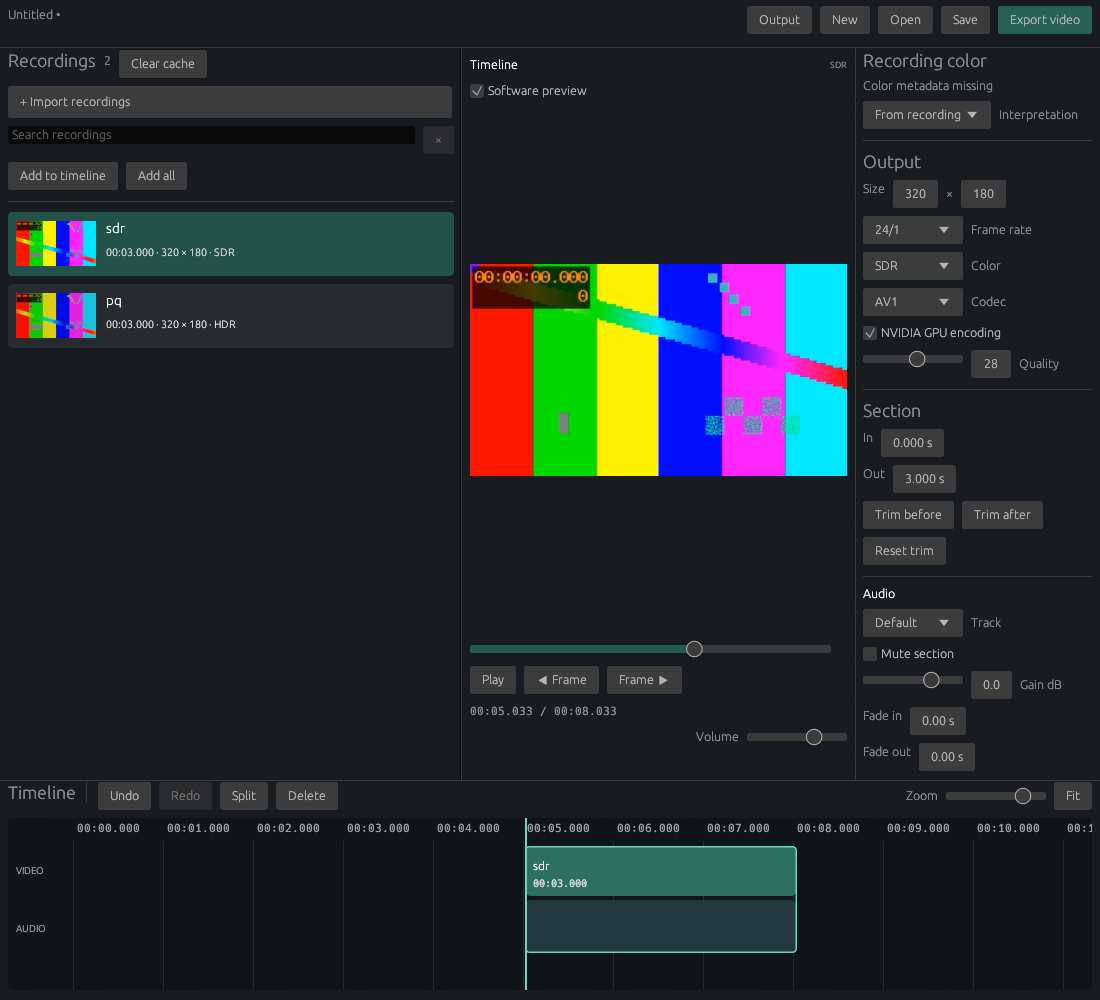
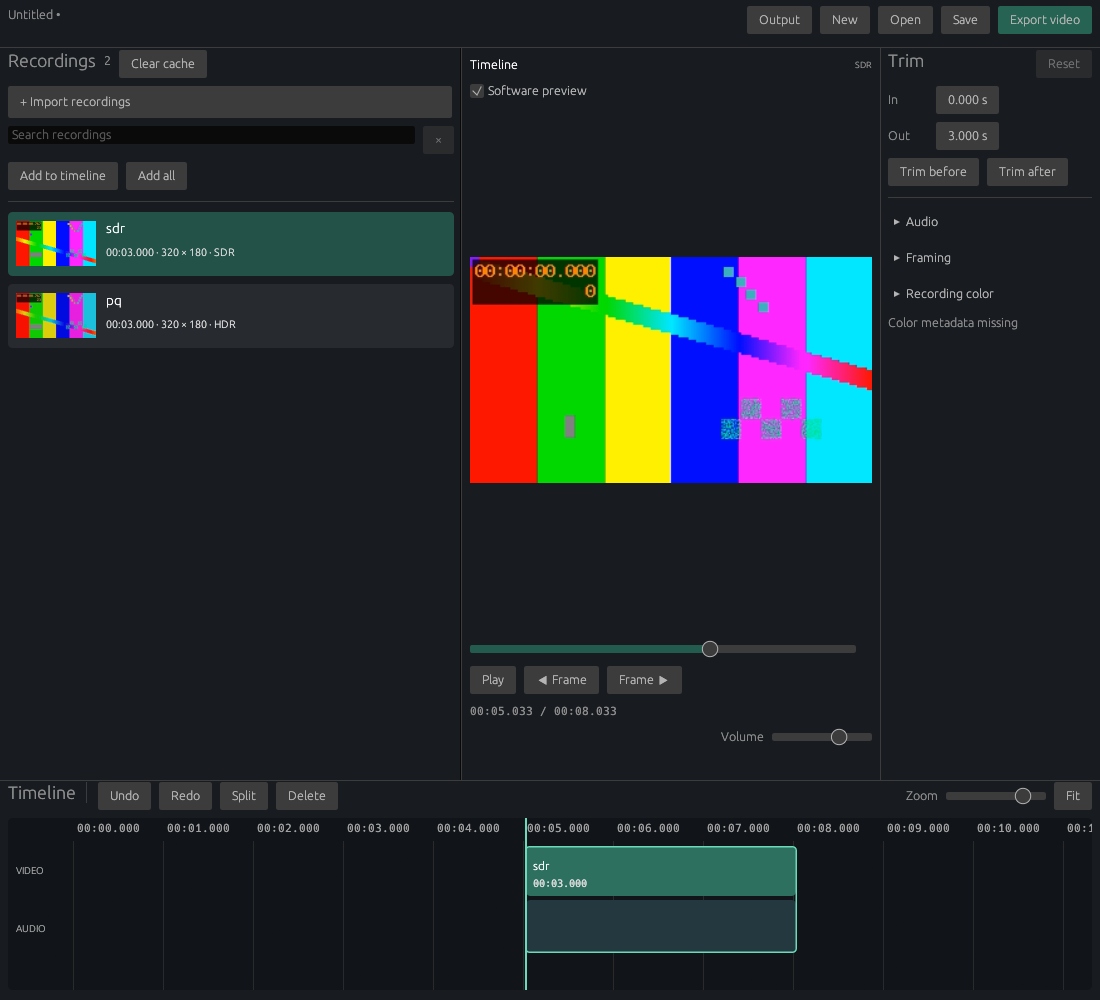
Simplify inspector around trimming

diff --git a/Development/rust/crates/desktop-ui/src/ui.rs b/Development/rust/crates/desktop-ui/src/ui.rs
@@ -1344,11 +1344,11 @@ impl EditorApp {
                 ui.horizontal(|ui| {
                     ui.heading("Timeline");
                     ui.separator();
-                    if ui
+                    let undo = ui
                         .add_enabled(self.editor.can_undo(), egui::Button::new("Undo"))
-                        .on_hover_cursor(egui::CursorIcon::PointingHand)
-                        .clicked()
-                    {
+                        .on_hover_cursor(egui::CursorIcon::PointingHand);
+                    self.controls.insert("undo", undo.rect);
+                    if undo.clicked() {
                         self.history(false);
                         self.request_key.clear();
                     }
@@ -1869,6 +1869,14 @@ impl EditorApp {
             });
     }
     fn inspector(&mut self, ctx: &egui::Context) {
+        for control in [
+            "audio-mute",
+            "audio-volume",
+            "framing-mode",
+            "recording-interpretation",
+        ] {
+            self.controls.remove(control);
+        }
         if !self.settings
             && self.selected_clip().is_none()
             && !(self.library_preview && self.library_selected.is_some())
@@ -1885,14 +1893,6 @@ impl EditorApp {
                     let mut metadata = self.editor.metadata().clone();
                     let before = metadata.clone();
                     let recording=if self.library_preview{self.library_selected}else{self.selected_clip().map(|c|c.source)};
-                    if let Some(source)=recording.and_then(|id|metadata.sources.iter().find(|s|s.id==id)){
-                        ui.heading("Recording color").on_hover_text(format!("{} · {} · {}",source.transfer,source.primaries,source.matrix));
-                        if source.transfer=="unknown" || source.primaries=="unknown" || source.matrix=="unknown"{ui.label("Color metadata missing").on_hover_text("Unspecified metadata uses SDR Rec.709 for YUV or sRGB for RGB. Choose an interpretation if the recording was made differently.");}
-                        if source.hdr() && source.primaries!="bt2020"{ui.label("Conflicting HDR metadata").on_hover_text("HDR transfer and color primaries disagree. Confirm the intended interpretation.");}
-                        let mut interpretation=metadata.interpretations.get(&source.id).copied().unwrap_or_default();
-                        egui::ComboBox::from_label("Interpretation").selected_text(match interpretation {SourceInterpretation::Auto=>"From recording",SourceInterpretation::Sdr709=>"SDR Rec.709",SourceInterpretation::Srgb=>"SDR sRGB",SourceInterpretation::Pq2020=>"HDR PQ / Rec.2020",SourceInterpretation::Hlg2020=>"HDR HLG / Rec.2020"}).show_ui(ui,|ui|{for (value,label) in [(SourceInterpretation::Auto,"From recording"),(SourceInterpretation::Sdr709,"SDR Rec.709"),(SourceInterpretation::Srgb,"SDR sRGB"),(SourceInterpretation::Pq2020,"HDR PQ / Rec.2020"),(SourceInterpretation::Hlg2020,"HDR HLG / Rec.2020")]{ui.selectable_value(&mut interpretation,value,label).on_hover_cursor(egui::CursorIcon::PointingHand);}}).response.on_hover_cursor(egui::CursorIcon::PointingHand);
-                        if interpretation!=SourceInterpretation::Auto || metadata.interpretations.contains_key(&source.id){metadata.interpretations.insert(source.id,interpretation);}ui.separator();
-                    }
                     if self.settings {
                         ui.heading("Output");
                         if metadata.output.profile==ColorProfile::Hdr10{
@@ -1974,22 +1974,31 @@ impl EditorApp {
                         ui.separator();
                     }
                     if !self.library_preview && let Some(clip) = self.selected_clip() {
-                        ui.heading("Section").on_hover_text(format!("Timeline position: {}",time(clip.timeline_start)));
+                        ui.horizontal(|ui| {
+                            ui.heading("Trim").on_hover_text(format!("Timeline position: {}", time(clip.timeline_start)));
+                            ui.with_layout(egui::Layout::right_to_left(egui::Align::Center), |ui| {
+                                if let Some(source) = metadata.sources.iter().find(|s| s.id == clip.source) {
+                                    let reset = ui.add_enabled(clip.source_in != 0.0 || clip.source_out != source.duration, egui::Button::new("Reset"))
+                                        .on_hover_cursor(egui::CursorIcon::PointingHand)
+                                        .on_hover_text("Restore the full recording");
+                                    self.controls.insert("trim-reset", reset.rect);
+                                    if reset.clicked() { self.trim(Some(0.0), Some(source.duration)); }
+                                }
+                            });
+                        });
                         let mut start = clip.source_in;
                         let mut end = clip.source_out;
-                        ui.horizontal(|ui| {
+                        egui::Grid::new("trim-fields").show(ui, |ui| {
                             ui.label("In");
-                            let response=trim_input(ui,&mut start,("trim-in",clip.id.0));self.controls.insert("trim-in",response.rect);
-                            if response.changed(){
-                                self.trim(Some(start), None);
-                            }
-                        });
-                        ui.horizontal(|ui| {
+                            let response = trim_input(ui, &mut start, ("trim-in", clip.id.0));
+                            self.controls.insert("trim-in", response.rect);
+                            if response.changed() { self.trim(Some(start), None); }
+                            ui.end_row();
                             ui.label("Out");
-                            let response=trim_input(ui,&mut end,("trim-out",clip.id.0));self.controls.insert("trim-out",response.rect);
-                            if response.changed(){
-                                self.trim(None, Some(end));
-                            }
+                            let response = trim_input(ui, &mut end, ("trim-out", clip.id.0));
+                            self.controls.insert("trim-out", response.rect);
+                            if response.changed() { self.trim(None, Some(end)); }
+                            ui.end_row();
                         });
                         ui.horizontal(|ui| {
                             if ui.button("Trim before").on_hover_cursor(egui::CursorIcon::PointingHand).on_hover_text("Trim before the playhead (Q)").clicked() {
@@ -1999,15 +2008,13 @@ impl EditorApp {
                                 self.quick_trim(false);
                             }
                         });
-                        if ui.button("Reset trim").on_hover_cursor(egui::CursorIcon::PointingHand).clicked()
-                            && let Some(s) = metadata.sources.iter().find(|s| s.id == clip.source)
-                        {
-                            self.trim(Some(0.0), Some(s.duration));
-                        }
                         let mut adjustment = metadata.adjustments.get(&clip.id).cloned().unwrap_or_default();
                         let previous_adjustment=adjustment.clone();
                         ui.separator();
-                        ui.strong("Audio");
+                        let audio = egui::CollapsingHeader::new("Audio")
+                            .id_salt("section-audio")
+                            .default_open(false)
+                            .show_unindented(ui, |ui| {
                         if let Some(source) = metadata.sources.iter().find(|s| s.id == clip.source)
                         {
                             egui::ComboBox::from_label("Track")
@@ -2027,11 +2034,14 @@ impl EditorApp {
                                     }
                                 }).response.on_hover_cursor(egui::CursorIcon::PointingHand);
                         }
-                        ui.checkbox(&mut adjustment.muted, "Mute section").on_hover_cursor(egui::CursorIcon::PointingHand);
-                        ui.add(
-                            egui::Slider::new(&mut adjustment.gain_db, -60.0..=24.0)
-                                .text("Gain dB"),
-                        );
+                        let mute = ui.checkbox(&mut adjustment.muted, "Mute").on_hover_cursor(egui::CursorIcon::PointingHand);
+                        self.controls.insert("audio-mute", mute.rect);
+                        let volume = ui.scope(|ui| {
+                            ui.spacing_mut().slider_width = (ui.available_width() - 140.0).clamp(50.0, 100.0);
+                            ui.add(egui::Slider::new(&mut adjustment.gain_db, -60.0..=24.0)
+                                .text("Volume").suffix(" dB"))
+                        }).inner;
+                        self.controls.insert("audio-volume", volume.rect);
                         ui.horizontal(|ui| {
                             ui.label("Fade in");
                             ui.add(
@@ -2050,15 +2060,21 @@ impl EditorApp {
                                     .suffix(" s"),
                             );
                         });
-                        ui.separator();
-                        ui.strong("Framing");
-                        egui::ComboBox::from_label("Mode")
+                        });
+                        self.controls.insert("inspector-audio", audio.header_response.rect);
+                        audio.header_response.on_hover_cursor(egui::CursorIcon::PointingHand);
+                        let framing = egui::CollapsingHeader::new("Framing")
+                            .id_salt("section-framing")
+                            .default_open(false)
+                            .show_unindented(ui, |ui| {
+                        let mode = egui::ComboBox::from_id_salt("framing-mode")
                             .selected_text(format!("{:?}", adjustment.framing))
                             .show_ui(ui, |ui| {
                                 ui.selectable_value(&mut adjustment.framing, Framing::Fit, "Fit").on_hover_cursor(egui::CursorIcon::PointingHand);
                                 ui.selectable_value(&mut adjustment.framing, Framing::Fill, "Fill").on_hover_cursor(egui::CursorIcon::PointingHand);
                                 ui.selectable_value(&mut adjustment.framing, Framing::Crop, "Crop").on_hover_cursor(egui::CursorIcon::PointingHand);
                             }).response.on_hover_cursor(egui::CursorIcon::PointingHand);
+                        self.controls.insert("framing-mode", mode.rect);
                         egui::ComboBox::from_label("Rotate")
                             .selected_text(format!("{}°", adjustment.rotation))
                             .show_ui(ui, |ui| {
@@ -2080,7 +2096,27 @@ impl EditorApp {
                                 );
                             }
                         }
+                        });
+                        self.controls.insert("inspector-framing", framing.header_response.rect);
+                        framing.header_response.on_hover_cursor(egui::CursorIcon::PointingHand);
                         if adjustment!=previous_adjustment{metadata.adjustments.insert(clip.id,adjustment);}
+                    }
+                    if let Some(source)=recording.and_then(|id|metadata.sources.iter().find(|s|s.id==id)){
+                        let color = egui::CollapsingHeader::new("Recording color")
+                            .id_salt("recording-color")
+                            .default_open(false)
+                            .show_unindented(ui, |ui| {
+                        let mut interpretation=metadata.interpretations.get(&source.id).copied().unwrap_or_default();
+                        let interpretation_response = egui::ComboBox::from_id_salt("source-interpretation").selected_text(match interpretation {SourceInterpretation::Auto=>"From recording",SourceInterpretation::Sdr709=>"SDR Rec.709",SourceInterpretation::Srgb=>"SDR sRGB",SourceInterpretation::Pq2020=>"HDR PQ / Rec.2020",SourceInterpretation::Hlg2020=>"HDR HLG / Rec.2020"}).show_ui(ui,|ui|{for (value,label) in [(SourceInterpretation::Auto,"From recording"),(SourceInterpretation::Sdr709,"SDR Rec.709"),(SourceInterpretation::Srgb,"SDR sRGB"),(SourceInterpretation::Pq2020,"HDR PQ / Rec.2020"),(SourceInterpretation::Hlg2020,"HDR HLG / Rec.2020")]{ui.selectable_value(&mut interpretation,value,label).on_hover_cursor(egui::CursorIcon::PointingHand);}}).response.on_hover_cursor(egui::CursorIcon::PointingHand);
+                        self.controls.insert("recording-interpretation", interpretation_response.rect);
+                        if interpretation!=SourceInterpretation::Auto || metadata.interpretations.contains_key(&source.id){metadata.interpretations.insert(source.id,interpretation);}
+                        });
+                        self.controls.insert("inspector-color", color.header_response.rect);
+                        color.header_response.on_hover_cursor(egui::CursorIcon::PointingHand)
+                            .on_hover_text(format!("{} · {} · {}",source.transfer,source.primaries,source.matrix));
+                        if source.transfer=="unknown" || source.primaries=="unknown" || source.matrix=="unknown"{ui.label("Color metadata missing").on_hover_text("Unspecified metadata uses SDR Rec.709 for YUV or sRGB for RGB. Choose an interpretation if the recording was made differently.");}
+                        if source.hdr() && source.primaries!="bt2020"{ui.label("Conflicting HDR metadata").on_hover_text("HDR transfer and color primaries disagree. Confirm the intended interpretation.");}
+
                     }
                     if metadata != before {
                         self.metadata(metadata);

diff --git a/Development/rust/crates/desktop-ui/src/ui/interaction_verification.rs b/Development/rust/crates/desktop-ui/src/ui/interaction_verification.rs
@@ -1035,6 +1035,124 @@ impl EditorApp {
                             );
                         }
                         test.checks.push("Library and external recording drops preserve source-frame placement despite a different output rate, and undo".into());
+                        test.phase = 116;
+                    }
+                    116 => {
+                        self.settings = false;
+                        test.precision = Some(SavedProject::capture(&self.editor));
+                        test.phase = 117;
+                    }
+                    117 => {
+                        if ["audio-mute", "framing-mode", "recording-interpretation"]
+                            .iter()
+                            .any(|key| self.controls.contains_key(key))
+                        {
+                            return Err(
+                                "Advanced inspector controls are not collapsed by default".into()
+                            );
+                        }
+                        ctx.send_viewport_cmd(
+                            egui::ViewportCommand::Screenshot(Default::default()),
+                        );
+                        test.phase = 118;
+                    }
+                    118 => {
+                        for event in ctx.input(|i| i.events.clone()) {
+                            if let egui::Event::Screenshot { image, .. } = event {
+                                test.screenshot(&image)?;
+                                std::fs::copy(
+                                    test.directory.join("desktop.bmp"),
+                                    test.directory.join("inspector-collapsed.bmp"),
+                                )?;
+                                test.focus_steps = 0;
+                                test.phase = 119;
+                            }
+                        }
+                    }
+                    119 | 127 => {
+                        let key = ["inspector-audio", "inspector-framing", "inspector-color"]
+                            [test.focus_steps];
+                        test.pointer(self.controls[key].center(), Some(true));
+                        test.phase += 1;
+                    }
+                    120 | 128 => {
+                        let key = ["inspector-audio", "inspector-framing", "inspector-color"]
+                            [test.focus_steps];
+                        test.pointer(self.controls[key].center(), Some(false));
+                        // Let the disclosure animation settle before targeting the next moving header.
+                        test.inspector_ready_at = Instant::now() + Duration::from_millis(300);
+                        test.phase += 1;
+                    }
+                    121 | 129 if Instant::now() >= test.inspector_ready_at => {
+                        let key = ["audio-mute", "framing-mode", "recording-interpretation"]
+                            [test.focus_steps];
+                        if self.controls.contains_key(key) == (test.phase == 121) {
+                            if SavedProject::capture(&self.editor)
+                                != *test.precision.as_ref().unwrap()
+                            {
+                                return Err(
+                                    "Expanding or collapsing inspector groups changed the project"
+                                        .into(),
+                                );
+                            }
+                            test.focus_steps += 1;
+                            test.phase = if test.focus_steps < 3 {
+                                test.phase - 2
+                            } else {
+                                test.phase + 1
+                            };
+                        }
+                    }
+                    122 => {
+                        if ["audio-volume", "trim-reset"]
+                            .iter()
+                            .any(|key| self.controls[key].right() > ctx.screen_rect().right())
+                        {
+                            return Err("Expanded inspector controls overflow the window".into());
+                        }
+                        ctx.send_viewport_cmd(
+                            egui::ViewportCommand::Screenshot(Default::default()),
+                        );
+                        test.phase = 123;
+                    }
+                    123 => {
+                        for event in ctx.input(|i| i.events.clone()) {
+                            if let egui::Event::Screenshot { image, .. } = event {
+                                test.screenshot(&image)?;
+                                std::fs::copy(
+                                    test.directory.join("desktop.bmp"),
+                                    test.directory.join("inspector-expanded.bmp"),
+                                )?;
+                                test.pointer(self.controls["audio-mute"].center(), Some(true));
+                                test.phase = 124;
+                            }
+                        }
+                    }
+                    124 => {
+                        test.pointer(self.controls["audio-mute"].center(), Some(false));
+                        test.phase = 125;
+                    }
+                    125 => {
+                        let clip = self
+                            .selected_clip()
+                            .ok_or("Inspector lost its selected section")?;
+                        let mut expected = test.precision.as_ref().unwrap().clone();
+                        let adjustment = expected.metadata.adjustments.entry(clip.id).or_default();
+                        adjustment.muted = !adjustment.muted;
+                        if SavedProject::capture(&self.editor) != expected {
+                            return Err("Expanded audio controls did not apply only the requested mute edit".into());
+                        }
+                        // Undo through the real toolbar, without changing text/focus shortcut ownership.
+                        test.pointer(self.controls["undo"].center(), Some(true));
+                        test.phase = 126;
+                    }
+                    126 => {
+                        test.pointer(self.controls["undo"].center(), Some(false));
+                        test.focus_steps = 0;
+                        test.phase = 127;
+                    }
+                    130 => {
+                        test.checks.push("Inspector starts with trim only; all advanced groups expand/collapse without editing, and audio mute undoes exactly".into());
                         test.phase = 60;
                     }
                     60 => {
@@ -1080,6 +1198,7 @@ impl EditorApp {
                             || self.controls["position-label"]
                                 .intersects(self.controls["frame-forward"])
                             || self.controls["frame-forward"].right() > viewport.right() + 0.1
+                            || self.controls["trim-reset"].right() > screen.right()
                         {
                             return Err(format!(
                                 "Preview or transport escaped its layout at resize {}, scale {} (screen {:?}, viewport {:?}, preview {:?}, ruler {:?}, scrubber {:?}, label {:?}, next {:?})",

diff --git a/Development/rust/crates/desktop-ui/src/verification.rs b/Development/rust/crates/desktop-ui/src/verification.rs
@@ -148,6 +148,7 @@ pub struct Verification {
     pub launch_files: bool,
     pub dropped_files: Vec<egui::DroppedFile>,
     pub recorded_phase: Option<u8>,
+    pub inspector_ready_at: Instant,
     pub fail_native: bool,
 }
 impl Verification {
@@ -206,6 +207,7 @@ impl Verification {
             launch_files,
             dropped_files: Vec::new(),
             recorded_phase: None,
+            inspector_ready_at: Instant::now(),
             fail_native: args.iter().any(|a| a == "--fail-native-preview"),
         })
     }

diff --git a/docs/rust-rewrite-status.md b/docs/rust-rewrite-status.md
@@ -2,6 +2,10 @@
 
 Target **1.1.0**. Started 2026-10-20. Production source/build cutover is implemented on the PR branch. Current-display HDR preview and bounded game capture checks pass. The user independently confirmed the HDR-game-to-SDR-game recording problem is external to this project; it no longer blocks the rewrite. Current DX12 startup checks pass; the earlier Glow debug failure remains unattributed, and broader display/DPI/accessibility acceptance needs follow-up. This is an unreleased candidate; no merge, tag or publication is authorized or performed.
 
[1 lines of base64/hex data omitted]
+
+Formatting, strict Clippy, 36 workspace/executable tests, **161 desktop checks across eight native/software SDR/PQ/HLG/VFR runs**, **49 checks across 40 layouts at 100–200% app UI scale**, three ordinary filename launches and relocated persistence/export/playback checks pass. Expanded and collapsed layouts were visually inspected; these are app-scale checks, not physical monitor/DPI or screen-reader acceptance. Evidence: rust-desktop/2253c620ed22473a8b18535333d90232, rust-desktop/5bc18ead436a4bacbc2ccd0788546e14, rust-launch/5e38b126529946df9617a95c8e410804 and rust-package-verification/c666672480dc42c09f34b14f75b34c42. Media/rendering implementations are unchanged; broader GPU and comparison evidence remains tied to its earlier artifacts.
+
[1 lines of base64/hex data omitted]
 
[1 lines of base64/hex data omitted]

diff --git a/docs/user-guide.md b/docs/user-guide.md
@@ -38,11 +38,13 @@ Tab moves keyboard focus between controls, including timeline sections; Enter se
 
 ## Audio, framing and color
 
-The inspector selects one source audio stream per section; the default uses the first stream. Gain, mute and fades are saved, undoable, previewed and exported. Output audio is stereo AAC at 48 kHz. Video-only sources receive silence. Separate music tracks and arbitrary mixing are later work.
+The inspector keeps In/Out and quick trims visible. Expand Audio, Framing or Recording color when needed; opening these groups does not change the project. Reset beside Trim restores the full recording.
+
+Audio selects one source audio stream per section; the default uses the first stream. Gain, mute and fades are saved, undoable, previewed and exported. Output audio is stereo AAC at 48 kHz. Video-only sources receive silence. Separate music tracks and arbitrary mixing are later work.
 
 Fit adds letterboxing. Fill covers the output frame. Crop uses normalized source coordinates; rotation is non-destructive. Intrinsic display rotation and non-square pixels are normalized before user framing. Export always reads original recordings.
 
-Sources report transfer, primaries, matrix, range and pixel format. PQ and HLG are detected from transfer metadata; a 10-bit pixel format alone does not imply HDR. Unspecified YUV metadata defaults to SDR Rec.709 and unspecified RGB to sRGB. The Interpretation selector overrides incorrect source signaling and persists in the project.
+Sources report transfer, primaries, matrix, range and pixel format. PQ and HLG are detected from transfer metadata; a 10-bit pixel format alone does not imply HDR. Unspecified YUV metadata defaults to SDR Rec.709 and unspecified RGB to sRGB. The selector under Recording color overrides incorrect source signaling and persists in the project.
 
 Choose SDR Rec.709 or HDR10/PQ output. PQ and HLG sources are deliberately tone-mapped for SDR preview/export and library thumbnails. HDR10 output uses 10-bit Rec.2020/PQ through AV1 or HEVC. H.264 remains SDR. Native HDR preview is requested only when Windows reports active HDR on the preview display; software rendering always uses SDR. The preview shows an HDR or SDR indicator; hover it for the rendering mode. Select Software preview to explicitly use CPU-rendered tone-mapped video if native playback or capture compatibility causes problems. Changing Windows/display state is detected on the playback worker without changing system settings.
 

diff --git a/docs/development.md b/docs/development.md
@@ -41,6 +41,8 @@ For a controlled editor comparison, launch an isolated `--verify-desktop <record
 
 Let layout and control names explain the editor. Avoid repeated headings, secondary descriptions and permanent shortcut legends; put optional technical detail and shortcuts in contextual tooltips. Keep action labels, source identity, active HDR/SDR state, meaningful metadata, warnings, errors and progress visible where they affect a decision. Preserve accessible names and keyboard behavior when simplifying the presentation.
 
+Keep trim boundaries and quick trims visible in the inspector. Audio, framing and source color start collapsed; expanding a group must not create a project edit or hide color warnings. Keep expanded controls within the resizable sidebar.
+
 Enabled buttons, dropdowns and toggles use the pointing hand cursor on hover. Set it on their responses with `on_hover_cursor`: the pinned egui version does not consume `Visuals::interact_cursor`. Keep text-entry and drag cursors specific to their interactions.
 
 ## Frozen legacy oracle

diff --git a/release-notes/1.1.0.md b/release-notes/1.1.0.md
@@ -11,7 +11,7 @@
 
 ## Changed
 
-- The interface uses fewer repeated labels, contextual tooltips and a pointing hand cursor over enabled buttons.
+- Trimming takes priority in a simpler inspector, with expandable audio, framing and color controls. Tooltips keep extra detail out of the way, and enabled buttons show a pointing hand.
 - The app has a new scissors icon with a blue play symbol.
 - The editor runs on Rust with a smaller portable package. The compared candidate's download is about 25% smaller than 1.0.4 and omits the bundled .NET runtime.
 - Frame navigation and quick trims use the actual frames in variable-frame-rate recordings, including game captures.

diff --git a/CHANGELOG.md b/CHANGELOG.md
@@ -17,7 +17,7 @@ Unreleased Rust candidate.
 
 ### Changed
 
-- The interface uses fewer repeated labels, contextual tooltips and a pointing hand cursor over enabled buttons.
+- Trimming takes priority in a simpler inspector, with expandable audio, framing and color controls. Tooltips keep extra detail out of the way, and enabled buttons show a pointing hand.
 - The app has a new scissors icon with a blue play symbol.
 - The portable Rust app has a smaller download—about 25% in the compared candidate—and no bundled .NET runtime.
 - Frame stepping and quick trims follow actual frame boundaries in variable-frame-rate recordings.
